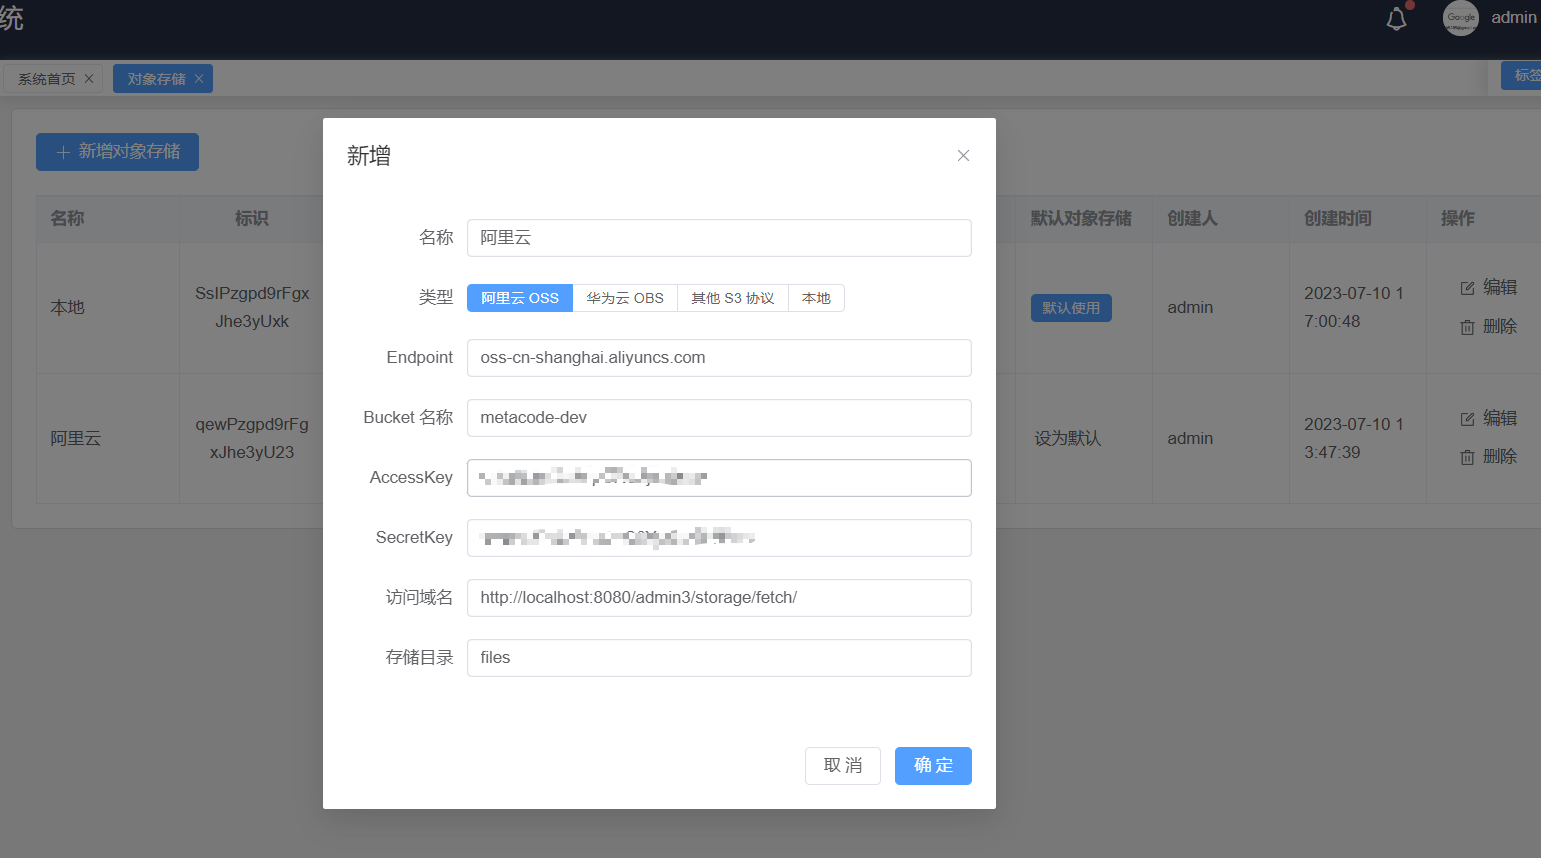
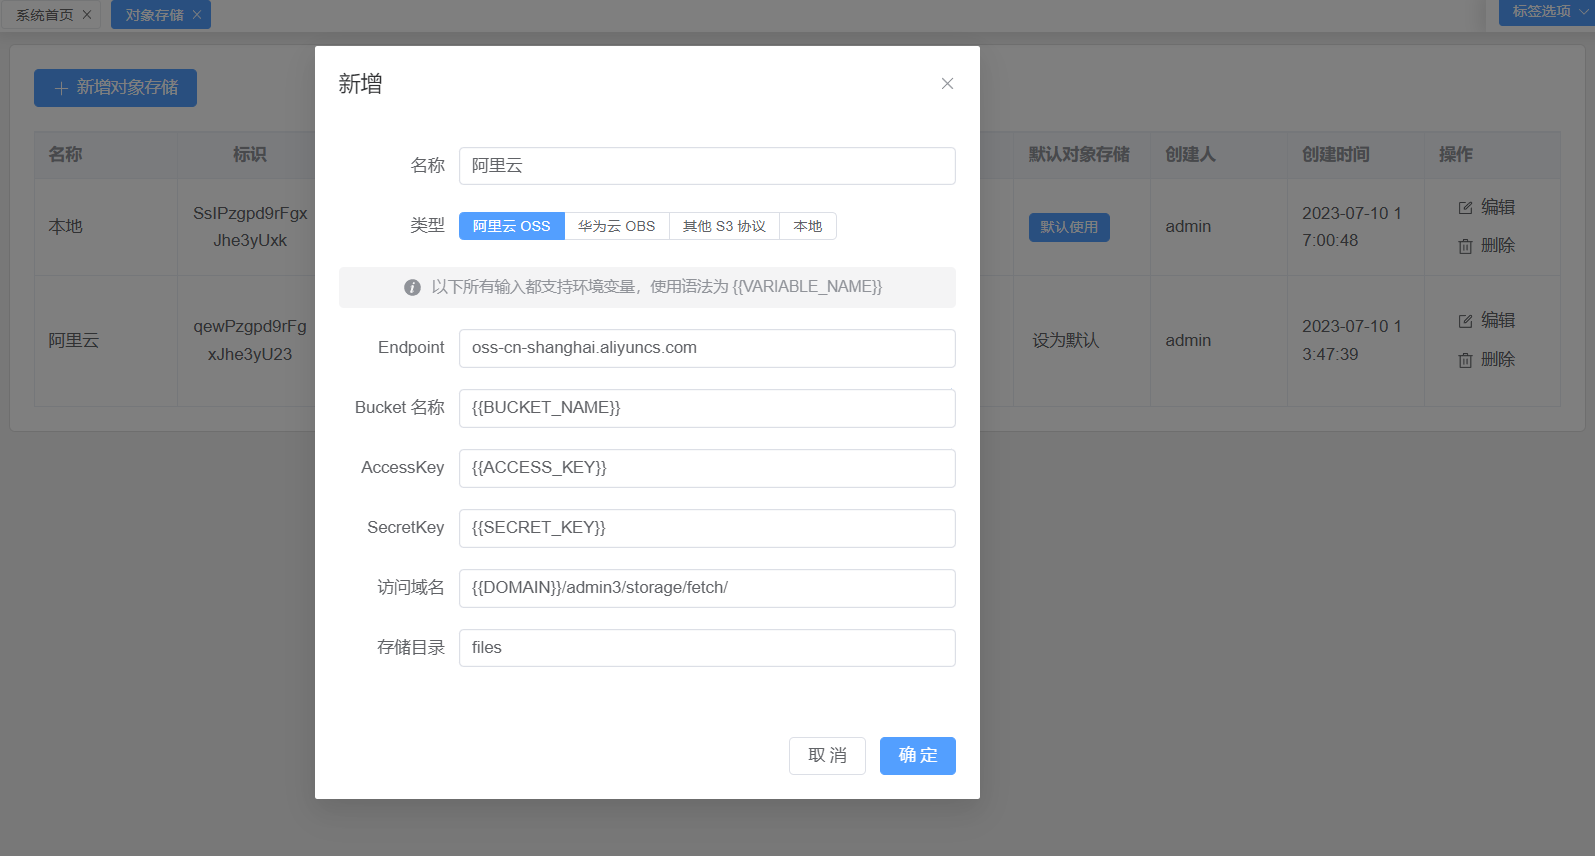
fix(storage): storage path

diff --git a/admin3-ui/components.d.ts b/admin3-ui/components.d.ts
@@ -9,6 +9,7 @@ declare module '@vue/runtime-core' {
   export interface GlobalComponents {
     AppIcon: typeof import('./src/components/AppIcon.vue')['default']
     AvatarUpload: typeof import('./src/components/AvatarUpload.vue')['default']
+    ElAlert: typeof import('element-plus/es')['ElAlert']
     ElAvatar: typeof import('element-plus/es')['ElAvatar']
     ElButton: typeof import('element-plus/es')['ElButton']
     ElButtonGroup: typeof import('element-plus/es')['ElButtonGroup']
@@ -26,7 +27,6 @@ declare module '@vue/runtime-core' {
     ElIcon: typeof import('element-plus/es')['ElIcon']
     ElImage: typeof import('element-plus/es')['ElImage']
     ElInput: typeof import('element-plus/es')['ElInput']
-    ElLink: typeof import('element-plus/es')['ElLink']
     ElMenu: typeof import('element-plus/es')['ElMenu']
     ElMenuItem: typeof import('element-plus/es')['ElMenuItem']
     ElOption: typeof import('element-plus/es')['ElOption']
@@ -47,7 +47,6 @@ declare module '@vue/runtime-core' {
     ElTag: typeof import('element-plus/es')['ElTag']
     ElTooltip: typeof import('element-plus/es')['ElTooltip']
     ElTree: typeof import('element-plus/es')['ElTree']
-    ElUpload: typeof import('element-plus/es')['ElUpload']
     Header: typeof import('./src/components/header.vue')['default']
     OrgSelect: typeof import('./src/components/OrgSelect.vue')['default']
     RouterLink: typeof import('vue-router')['RouterLink']

diff --git a/admin3-ui/src/views/storage-list.vue b/admin3-ui/src/views/storage-list.vue
@@ -60,6 +60,7 @@
             <el-radio-button label="LOCAL">本地</el-radio-button>
           </el-radio-group>
         </el-form-item>
+        <el-alert title="以下所有输入都支持环境变量，使用语法为 {{VARIABLE_NAME}}" show-icon center :closable="false" style="margin-bottom: 18px"/>
         <el-form-item label="Endpoint" v-if="form.type!=='LOCAL'">
           <el-input v-model="form.endpoint" placeholder="对象存储资源的Endpoint"/>
         </el-form-item>
@@ -101,6 +102,7 @@
             <el-radio-button label="LOCAL">本地</el-radio-button>
           </el-radio-group>
         </el-form-item>
+        <el-alert title="以下所有输入都支持环境变量，使用语法为 {{VARIABLE_NAME}}" show-icon center :closable="false" style="margin-bottom: 18px"/>
         <el-form-item label="Endpoint" v-if="form.type!=='LOCAL'">
           <el-input v-model="form.endpoint" placeholder="对象存储资源的Endpoint"/>
         </el-form-item>

diff --git a/admin3-server/src/main/java/tech/wetech/admin3/infra/storage/S3Storage.java b/admin3-server/src/main/java/tech/wetech/admin3/infra/storage/S3Storage.java
@@ -38,7 +38,7 @@ public class S3Storage implements Storage {
   @Override
   public void store(InputStream inputStream, long contentLength, String contentType, String filename) {
     AmazonS3 s3client = getS3Client();
-    String bucketName = config.getBucketName();
+    String bucketName = config.getSecretKeyWithEnv();
     if (!s3client.doesBucketExistV2(bucketName)) {
       s3client.createBucket(bucketName);
     }
@@ -71,11 +71,11 @@ public class S3Storage implements Storage {
   }
 
   private AmazonS3 getS3Client() {
-    AWSCredentials awsCredentials = new BasicAWSCredentials(config.getAccessKey(), config.getSecretKey());
+    AWSCredentials awsCredentials = new BasicAWSCredentials(config.getAccessKeyWithEnv(), config.getSecretKeyWithEnv());
     AWSCredentialsProvider awsCredentialsProvider = new AWSStaticCredentialsProvider(awsCredentials);
     ClientConfiguration clientConfiguration = new ClientConfiguration();
     AwsClientBuilder.EndpointConfiguration endpointConfiguration = new AwsClientBuilder.EndpointConfiguration(
-      config.getEndpoint(), null);
+      config.getEndpointWithEnv(), null);
     return AmazonS3Client.builder()
       .withEndpointConfiguration(endpointConfiguration)
       .withClientConfiguration(clientConfiguration)
@@ -87,7 +87,7 @@ public class S3Storage implements Storage {
 
   @Override
   public Resource loadAsResource(String filename) {
-    String bucketName = config.getBucketName();
+    String bucketName = config.getBucketNameWithEnv();
     AmazonS3 amazonS3 = getS3Client();
     S3Object s3Object = amazonS3.getObject(bucketName, filename);
     InputStream is = s3Object.getObjectContent();
@@ -96,17 +96,17 @@ public class S3Storage implements Storage {
 
   @Override
   public void delete(String filename) {
-    String bucketName = config.getBucketName();
+    String bucketName = config.getBucketNameWithEnv();
     AmazonS3 amazonS3 = getS3Client();
     amazonS3.deleteObject(bucketName, filename);
   }
 
   @Override
   public String getUrl(String filename) {
-    if (config.getAddress() != null) {
-      return config.getAddress() + filename;
+    if (config.getAddressWithEnv() != null) {
+      return config.getAddressWithEnv() + filename;
     }
-    String bucketName = config.getBucketName();
+    String bucketName = config.getBucketNameWithEnv();
     return getS3Client().getUrl(bucketName, filename).toString();
   }
 }

diff --git a/admin3-server/src/main/java/tech/wetech/admin3/sys/model/StorageConfig.java b/admin3-server/src/main/java/tech/wetech/admin3/sys/model/StorageConfig.java
@@ -5,9 +5,12 @@ import jakarta.persistence.Entity;
 import jakarta.persistence.PrePersist;
 import tech.wetech.admin3.common.Constants;
 import tech.wetech.admin3.common.SessionItemHolder;
+import tech.wetech.admin3.common.StringUtils;
 import tech.wetech.admin3.sys.service.dto.UserinfoDTO;
 
 import java.time.LocalDateTime;
+import java.util.HashMap;
+import java.util.Map;
 
 /**
  * @author cjbi
@@ -135,6 +138,7 @@ public class StorageConfig extends BaseEntity {
     this.storagePath = storagePath;
   }
 
+
   public String getCreateUser() {
     return createUser;
   }
@@ -150,4 +154,36 @@ public class StorageConfig extends BaseEntity {
   public void setCreateTime(LocalDateTime createTime) {
     this.createTime = createTime;
   }
+
+  public String getAccessKeyWithEnv() {
+    return renderTemplate(accessKey);
+  }
+
+  public String getSecretKeyWithEnv() {
+    return renderTemplate(secretKey);
+  }
+
+  public String getEndpointWithEnv() {
+    return renderTemplate(endpoint);
+  }
+
+  public String getBucketNameWithEnv() {
+    return renderTemplate(bucketName);
+  }
+
+  public String getAddressWithEnv() {
+    return renderTemplate(address);
+  }
+
+  public String getStoragePathWithEnv() {
+    return renderTemplate(storagePath);
+  }
+
+  private String renderTemplate(String template) {
+    Map<Object, Object> attributes = new HashMap<>();
+    attributes.putAll(System.getenv());
+    attributes.putAll(System.getProperties());
+    return StringUtils.simpleRenderTemplate(template, attributes);
+  }
+
 }

diff --git a/admin3-server/src/main/java/tech/wetech/admin3/common/StringUtils.java b/admin3-server/src/main/java/tech/wetech/admin3/common/StringUtils.java
@@ -19,6 +19,25 @@ public class StringUtils {
     return sb.toString();
   }
 
+  public static boolean isEmpty(Object str) {
+    return str == null || "".equals(str);
+  }
+
+  public static boolean isBlank(String str) {
+    int strLen;
+    if (str != null && (strLen = str.length()) != 0) {
+      for (int i = 0; i < strLen; ++i) {
+        // 判断字符是否为空格、制表符、tab
+        if (!Character.isWhitespace(str.charAt(i))) {
+          return false;
+        }
+      }
+      return true;
+    } else {
+      return true;
+    }
+  }
+
   /**
    * 实现简单版本 mustache 风格的模板渲染，支持<b>{{key}}<b/>格式的模板内容
    *
@@ -27,6 +46,9 @@ public class StringUtils {
    * @return 渲染结果
    */
   public static String simpleRenderTemplate(String template, Map<?, ?> attributes) {
+    if (isBlank(template)) {
+      return template;
+    }
     int length = template.length();
     for (int i = 0; i < length; i++) {
       if (template.charAt(i) == '{') {

diff --git a/admin3-server/src/main/java/tech/wetech/admin3/infra/storage/LocalStorage.java b/admin3-server/src/main/java/tech/wetech/admin3/infra/storage/LocalStorage.java
@@ -24,7 +24,7 @@ public class LocalStorage implements Storage {
   public LocalStorage(StorageConfig config) {
     this.config = config;
 
-    this.rootLocation = Paths.get(config.getStoragePath());
+    this.rootLocation = Paths.get(config.getStoragePathWithEnv());
     try {
       Files.createDirectories(rootLocation);
     } catch (IOException e) {
@@ -79,6 +79,6 @@ public class LocalStorage implements Storage {
 
   @Override
   public String getUrl(String keyName) {
-    return config.getAddress() + keyName;
+    return config.getAddressWithEnv() + keyName;
   }
 }

diff --git a/doc/storage.md b/doc/storage.md
@@ -6,12 +6,15 @@ Admin3 已实现阿里云OSS、华为云OBS、MinIO 等符合 S3 标准的所有
 
 1. 在`系统管理>对象存储` 页面新增对象存储
 
-   > 访问域名不填写，则返回对象存储厂商地址，不使用代理，代理路径为 `${domain}/admin3/storage/fetch/`，${domain} 根据实际外网地址配置
-   > 存储目录不配置默认为 `files`
+   > 访问域名不填写，则返回对象存储厂商地址，不使用代理，代理路径为 `{{domain}}/admin3/storage/fetch/`，{{domain}} 根据实际外网地址配置 <br>
+   > 存储目录不配置默认为 `files` <br>
+   > 支持读取系统环境变量和JDK配置作为配置参数，使用语法为 {{VARIABLE_NAME}}
 
    ![](image/storage.png)
 
 2. 设置为默认存储位置
+
+   > 也可以在上传时指定 storageId 来选择目标存储位置，多个对象存储可同时使用互不影响
 
    ![img.png](image/mark-as-default.png)
 
